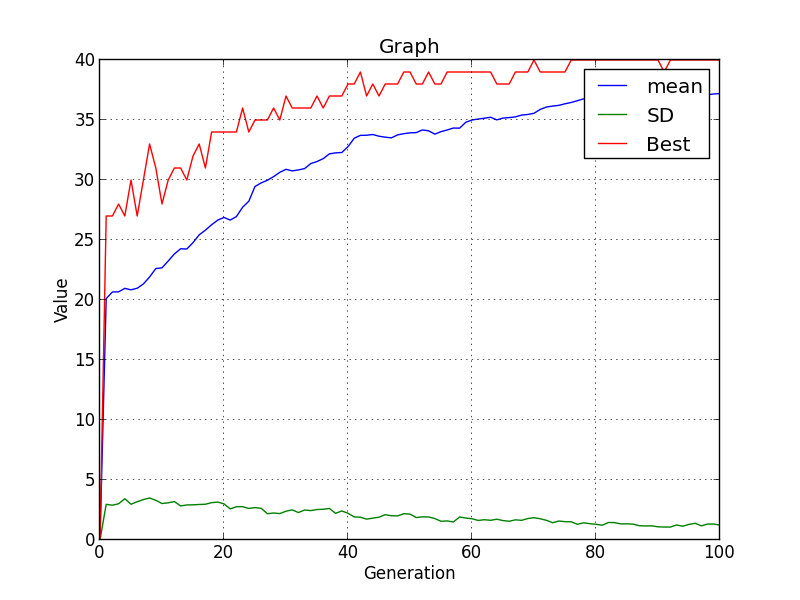
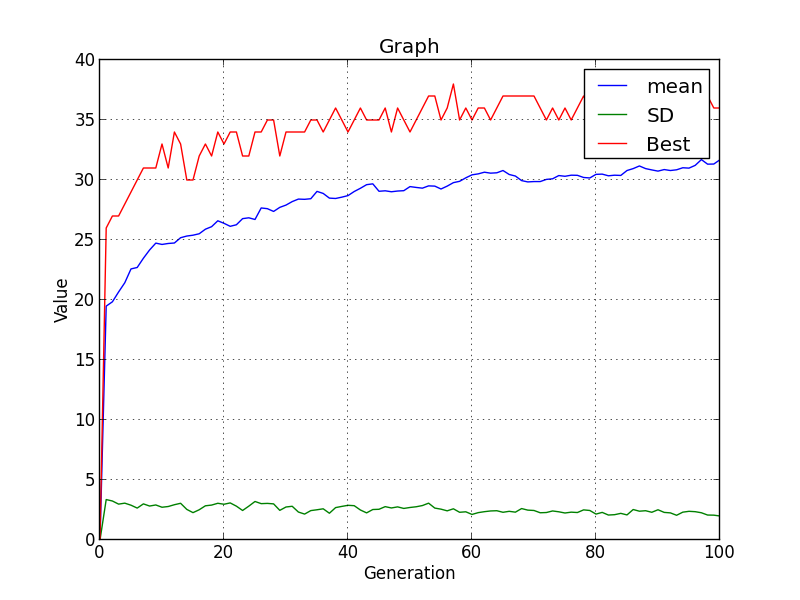
l

diff --git a/Evolution.py b/Evolution.py
@@ -12,10 +12,13 @@ from Individ import Phenotype
 class Evolution:
 
     class SelectionStrategy:
+        #Global 1 - 10
         Fitness = 1
         Sigma = 2
         Boltz = 3
         Rank = 4
+        #Local 11 - 20
+        Tournament = 11
 
     m = 100   #number of grownups for mateselection
     n = 100  #number of children in population
@@ -30,7 +33,10 @@ class Evolution:
     Boltz_T = 100
     Rank_Min = 0.5
     Rank_Max = 1.5
+    TournamentE = 0.1
+    TournamentK = 4
 
+    noVarShown = False
 
     def __init__(self):
         self.individs = []
@@ -76,7 +82,7 @@ class Evolution:
         self.fitnessSD = 0.0
         for individ in self.individs:
             individ.fitness = 0
-            individ.tested = False
+            individ.tournamentNr = -1
 
         tested = 0
         for i in range (0, Evolution.tournamentCount):
@@ -84,10 +90,10 @@ class Evolution:
             for j in range (0, math.ceil(len(self.individs)/Evolution.tournamentCount)):
                 while True:
                     index = rnd.randint(0, len(self.individs) - 1)
-                    if self.individs[index].tested == False:
+                    if self.individs[index].tournamentNr == -1:
                         break
                 contesters.append(self.individs[index])
-                self.individs[index].tested = True
+                self.individs[index].tournamentNr = j
                 tested += 1
                 if tested == len(self.individs):
                     break
@@ -101,8 +107,9 @@ class Evolution:
             self.fitnessSD += math.pow((self.individs[i].fitness - self.fitnessMean), 2)
         self.fitnessSD /= len(self.individs)
         self.fitnessSD = math.pow(self.fitnessSD, 0.5)
-        if self.fitnessSD == 0:
+        if self.fitnessSD == 0 and not Evolution.noVarShown:
             print("No variation in fitness!")
+            Evolution.noVarShown = True
             sys.stdin.readline()
 
         #self.fitnessSDratio = self.fitnessSD / self.fitnessMean
@@ -120,32 +127,46 @@ class Evolution:
         
         
     def mateSelection(self):
-        if Evolution.selectionStrategy == Evolution.SelectionStrategy.Fitness:
-            self.fitnessProportionate()
-        elif Evolution.selectionStrategy == Evolution.SelectionStrategy.Sigma:
-            self.sigmaVal()
-        elif Evolution.selectionStrategy == Evolution.SelectionStrategy.Boltz:
-            self.boltzVal()
-        elif Evolution.selectionStrategy == Evolution.SelectionStrategy.Rank:
-            self.rankVal()
+        if Evolution.selectionStrategy <= 10:
+            if Evolution.selectionStrategy == Evolution.SelectionStrategy.Fitness:
+                self.fitnessProportionate()
+            elif Evolution.selectionStrategy == Evolution.SelectionStrategy.Sigma:
+                self.sigmaVal()
+            elif Evolution.selectionStrategy == Evolution.SelectionStrategy.Boltz:
+                self.boltzVal()
+            elif Evolution.selectionStrategy == Evolution.SelectionStrategy.Rank:
+                self.rankVal()
 
-        self.sumExpVal = 0
-        for individ in self.individs:
-            self.sumExpVal += individ.expVal
-            #print(str(individ.expVal) + " - " + str(individ.fitness))
+            self.sumExpVal = 0
+            for individ in self.individs:
+                self.sumExpVal += individ.expVal
 
         childPool = []
         for i in range(0, round(self.n/self.p)):
             parents = []
             while len(parents) < self.p:
-                ticket = rnd.random() * self.sumExpVal
-                #print(ticket)
-                for individ in self.individs:
-                    ticket -= individ.expVal
-                    if ticket <= 0:
-                        if parents.count(individ) == 0:
-                            parents.append(individ)
-                        break
+                
+                if Evolution.selectionStrategy > 10:
+                    contesters = []
+                    for j in range (0, Evolution.TournamentK):
+                        while True:
+                            index = rnd.randint(0, len(self.individs) - 1)
+                            if contesters.count(self.individs[index]) == 0:
+                                break
+                        contesters.append(self.individs[index])
+                    if rnd.random() < Evolution.TournamentE:
+                        parents.append(contesters[rnd.randint(0, len(contesters) - 1)])
+                    else:
+                        parents.append(max(contesters, key = attrgetter('fitness')))
+
+                else:
+                    ticket = rnd.random() * self.sumExpVal
+                    for individ in self.individs:
+                        ticket -= individ.expVal
+                        if ticket <= 0:
+                            if parents.count(individ) == 0:
+                                parents.append(individ)
+                            break
             
             #child = self.individType(parents, Evolution.gray)
             #childPool.append(child)

diff --git a/OneMax.py b/OneMax.py
@@ -1,10 +1,11 @@
 from Evolution import Evolution
 from BinaryVector import BinaryVector
 import matplotlib.pyplot as p
+import random
 
 class OneMax(Evolution):
     
-
+    Target = [1] * BinaryVector.blueprint[0]
 
     def __init__(self):
         super().__init__()

diff --git a/Individ.py b/Individ.py
@@ -10,8 +10,8 @@ import sys
 
 class Individ(object):
 
-    mutationRate = 0.0
-    crossoverRate = 0.3
+    mutationRate = 0.01
+    crossoverRate = 0.5
     
     def __init__(self, blueprint, parents = [], crossovers = [], gray = False):
         self.fitness = 0
